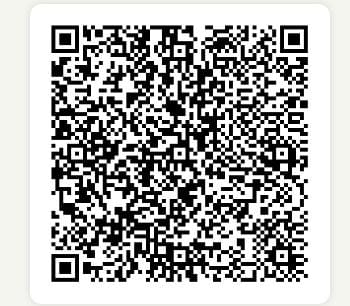
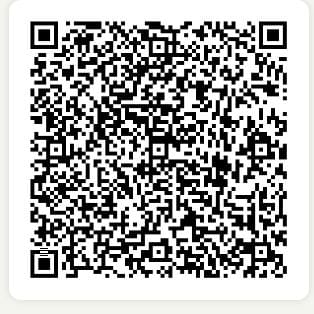
actualizar precio

diff --git a/app/page.tsx b/app/page.tsx
@@ -9,7 +9,7 @@ function PagoContent() {
   const router = useRouter();
 
   const montoParam = params.get("monto");
-  const monto = montoParam ? parseFloat(montoParam) : 120;
+  const monto = montoParam ? parseFloat(montoParam) : 112;
 
   return (
     <main className="min-h-screen bg-[#f3f3f3] font-[system-ui,Segoe UI,Roboto,sans-serif] text-[#111]">

diff --git a/app/pago/yape/page.tsx b/app/pago/yape/page.tsx
@@ -8,7 +8,7 @@ import RightPanel from "@/components/RightPanel";
 
 export default function YapePage() {
   const router = useRouter();
-  const [monto] = useState<number>(120);
+  const [monto] = useState<number>(112);
   const [email, setEmail] = useState("");
   const [celular, setCelular] = useState("");
   const [codigo, setCodigo] = useState("");

diff --git a/app/pago/credito/page.tsx b/app/pago/credito/page.tsx
@@ -7,7 +7,7 @@ import { useRouter } from "next/navigation";
 import RightPanel from "@/components/RightPanel";
 
 export default function CreditoPage() {
-  const [monto] = useState<number>(120);
+  const [monto] = useState<number>(112);
   const router = useRouter();
   const [form, setForm] = useState({
     tarjeta: "",

diff --git a/app/pago/debito/page.tsx b/app/pago/debito/page.tsx
@@ -7,7 +7,7 @@ import { useRouter } from "next/navigation";
 import RightPanel from "@/components/RightPanel";
 
 export default function DebitoPage() {
-  const [monto] = useState<number>(120);
+  const [monto] = useState<number>(112);
   const router = useRouter();
   const [form, setForm] = useState({
     tarjeta: "",
